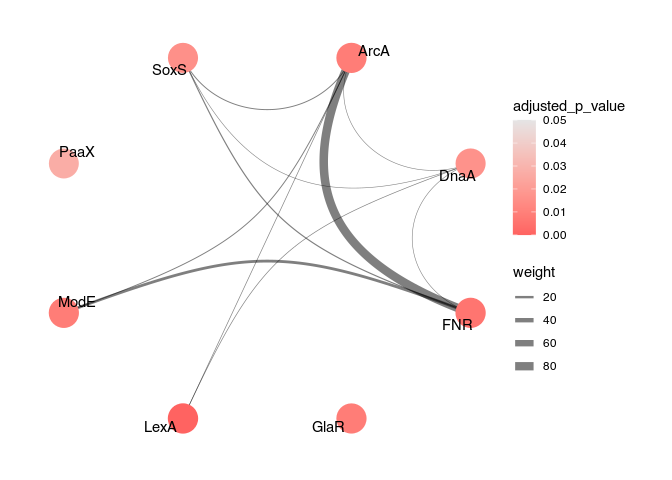
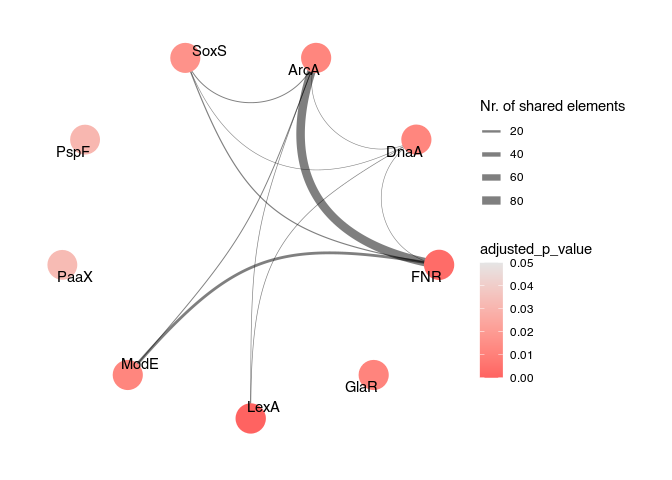
addExtraParamsToPlt range 0 was changed to 0.2

diff --git a/README.md b/README.md
@@ -478,10 +478,7 @@ plot_graph(reshaped_results = ora_reshaped_results,
            # Upper threshold for the value indicating the significance
            p_value_max_threshold = 0.05,
            # Column that indicates the significance values
-           p_value_type_colname = "eFDR") +
-  # Scaling the edge width
-  ggraph::scale_edge_width_continuous(range = c(0.2, 3), 
-                                      breaks = c(2, 4, 6, 8, 10))
+           p_value_type_colname = "eFDR")
 ```
 
 <img src="man/figures/README-network_plot_ora-1.png" width="60%" />
@@ -693,7 +690,7 @@ gsea_results %>%
   filter(adjusted_p_value < 0.05) %>% 
   # the number of such rows
   nrow()
-#> [1] 8
+#> [1] 9
 ```
 
 Inspect the significant results:
@@ -708,14 +705,15 @@ gsea_results %>%
 
 | ontology_id | ontology_name | nr_common_with_tested_elements |   p_value | adjusted_p_value |
 |:------------|:--------------|-------------------------------:|----------:|-----------------:|
-| LexA        | LexA          |                             53 | 0.0000000 |        0.0000037 |
-| FNR         | FNR           |                            259 | 0.0000784 |        0.0059976 |
-| ArcA        | ArcA          |                            148 | 0.0002848 |        0.0087152 |
-| GlaR        | GlaR          |                              3 | 0.0002484 |        0.0087152 |
-| ModE        | ModE          |                             45 | 0.0002666 |        0.0087152 |
-| SoxS        | SoxS          |                             37 | 0.0006182 |        0.0157647 |
-| DnaA        | DnaA          |                             13 | 0.0007556 |        0.0165154 |
-| PaaX        | PaaX          |                             14 | 0.0014082 |        0.0269323 |
+| LexA        | LexA          |                             53 | 0.0000001 |        0.0000089 |
+| FNR         | FNR           |                            259 | 0.0000379 |        0.0028982 |
+| GlaR        | GlaR          |                              3 | 0.0002188 |        0.0111583 |
+| ArcA        | ArcA          |                            148 | 0.0003258 |        0.0117944 |
+| DnaA        | DnaA          |                             13 | 0.0004397 |        0.0117944 |
+| ModE        | ModE          |                             45 | 0.0004625 |        0.0117944 |
+| SoxS        | SoxS          |                             37 | 0.0007464 |        0.0163152 |
+| PspF        | PspF          |                              7 | 0.0016107 |        0.0308049 |
+| PaaX        | PaaX          |                             14 | 0.0019054 |        0.0323922 |
 
 ### Visualising the GSEA Results
 
@@ -747,10 +745,7 @@ plot_graph(reshaped_results = gsea_reshaped_results,
            # upper threshold for the value indicating the significance
            p_value_max_threshold = 0.05,
            # column that indicates the significance values
-           p_value_type_colname = "adjusted_p_value") +
-  # Scaling the edge width
-  ggraph::scale_edge_width_continuous(range = c(0.2, 3), 
-                                      breaks = c(20, 40, 60, 80))
+           p_value_type_colname = "adjusted_p_value")
 ```
 
 <img src="man/figures/README-network_plot_gsea-1.png" width="60%" />
@@ -949,7 +944,7 @@ ordered_set %>%
 sessionInfo()
 #> R version 4.4.1 (2024-06-14)
 #> Platform: x86_64-pc-linux-gnu
-#> Running under: Ubuntu 22.04.4 LTS
+#> Running under: Ubuntu 22.04.5 LTS
 #> 
 #> Matrix products: default
 #> BLAS:   /usr/lib/x86_64-linux-gnu/openblas-pthread/libblas.so.3 
@@ -976,7 +971,7 @@ sessionInfo()
 #> 
 #> loaded via a namespace (and not attached):
 #>  [1] fastmatch_1.1-4     gtable_0.3.5        xfun_0.47          
-#>  [4] ggrepel_0.9.5       lattice_0.22-6      tzdb_0.4.0         
+#>  [4] ggrepel_0.9.6       lattice_0.22-6      tzdb_0.4.0         
 #>  [7] vctrs_0.6.5         tools_4.4.1         generics_0.1.3     
 #> [10] curl_5.2.2          parallel_4.4.1      fansi_1.0.6        
 #> [13] highr_0.11          pkgconfig_2.0.3     Matrix_1.7-0       
